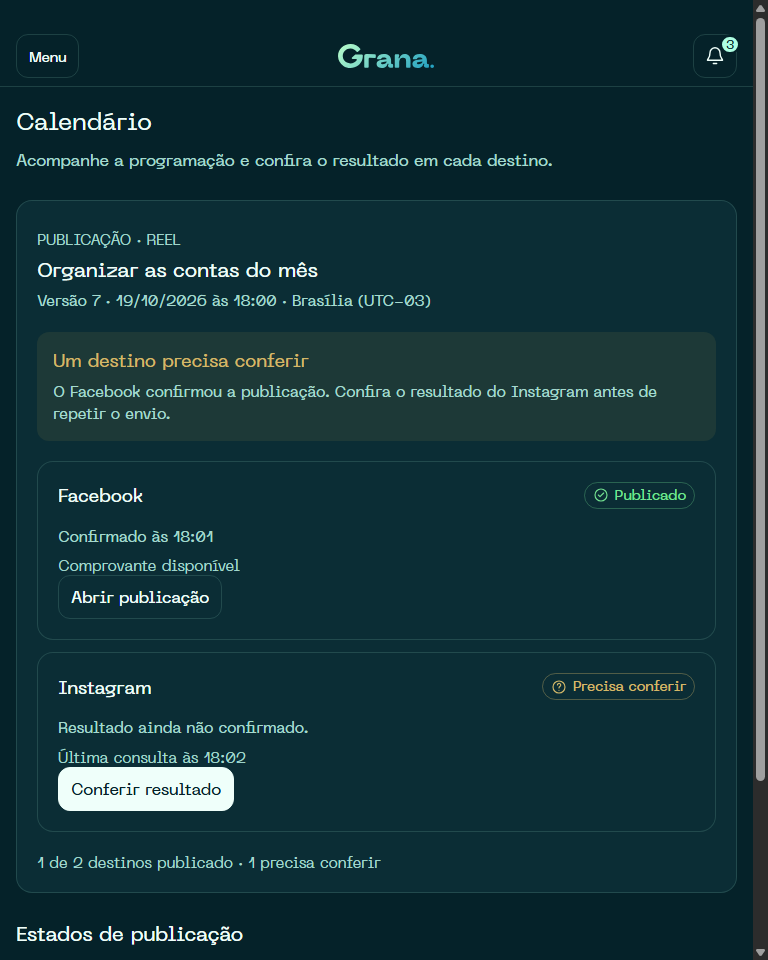
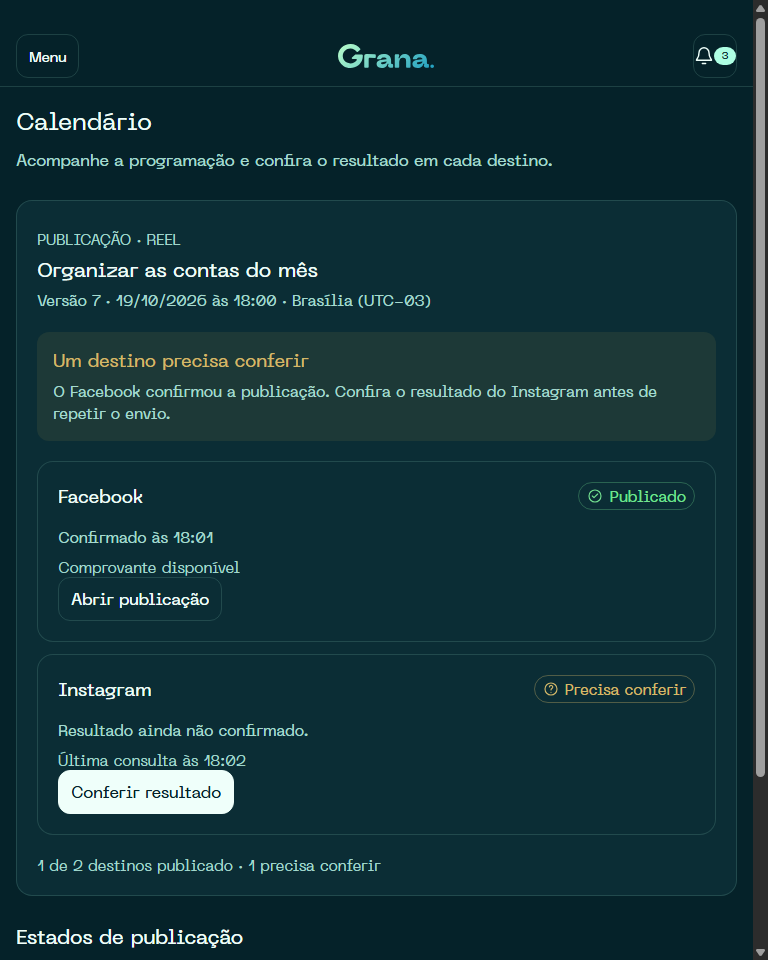
docs(admin): aplica R3b-R7 nas pranchas M6

diff --git a/docs/admin/m6-prism/M6-Prism-pranchas.html b/docs/admin/m6-prism/M6-Prism-pranchas.html
@@ -58,22 +58,22 @@
     }
     button.primary { border-color: var(--ink); background: var(--ink); color: var(--paper); }
     button.ghost { border-color: transparent; color: var(--soft); }
-    button.icon { position: relative; width: 44px; height: 44px; padding: 10px; }
+    button.icon { width: 44px; height: 44px; padding: 0; gap: 0; }
     svg { width: 20px; height: 20px; flex: none; fill: none; stroke: currentColor; stroke-width: 1.7; stroke-linecap: round; stroke-linejoin: round; }
     .count {
-      position: absolute;
-      top: 0;
-      right: -4px;
-      min-width: 19px;
-      height: 19px;
-      padding: 0 4px;
-      border: 2px solid var(--paper);
-      border-radius: 20px;
+      display: inline-flex;
+      align-items: center;
+      justify-content: center;
+      min-width: 22px;
+      height: 18px;
+      padding: 0 2px;
+      border-radius: 999px;
       background: var(--mint);
       color: var(--paper);
-      font: 400 12px/15px Neue, sans-serif;
+      font: 400 10px/1 Neue, sans-serif;
       text-align: center;
     }
+    button.icon svg { width: 20px; height: 20px; }
     .sidebar {
       position: fixed;
       inset: 0 auto 0 0;
@@ -107,7 +107,7 @@
     .card { min-width: 0; margin-top: 20px; padding: 20px; border: 1px solid var(--rule); border-radius: 16px; background: var(--raised); }
     .card > p { margin-top: 8px; color: var(--soft); font-size: 15px; }
     .row { display: flex; align-items: center; justify-content: space-between; gap: 12px; flex-wrap: wrap; }
-    .alert { margin: 20px 0; padding: 16px; border-radius: 12px; background: rgba(165, 150, 74, .12); color: var(--amber); }
+    .alert { margin: 20px 0; padding: 16px; border-radius: 12px; background: var(--atencao-fundo, rgba(165, 150, 74, .12)); color: var(--amber); }
     .alert p { margin-top: 8px; color: var(--soft); font-size: 15px; }
     .destinations { display: grid; grid-template-columns: 1fr 1fr; gap: 12px; }
     .destinations .card { margin: 0; }
@@ -121,15 +121,17 @@
       border: 1px solid var(--rule);
       border-radius: 999px;
       color: var(--soft);
-      font-size: 14px;
+      font-size: 15px;
       line-height: 1.35;
       overflow-wrap: anywhere;
     }
     .state svg { width: 16px; height: 16px; }
+    .state.planned { border-style: dashed; color: var(--faint); }
+    .state.neutral { border-color: rgba(166, 217, 206, .3); background: rgba(166, 217, 206, .05); color: var(--soft); }
     .state.warn { border-color: rgba(211, 184, 105, .35); color: var(--amber); }
     .state.success { border-color: rgba(116, 226, 145, .3); color: var(--up); }
     .state.error { border-color: rgba(224, 138, 125, .35); color: var(--danger); }
-    .state.mint { color: var(--mint); }
+    .state.mint { border-color: rgba(174, 255, 227, .35); background: rgba(174, 255, 227, .08); color: var(--mint); }
     .detail-line { margin-top: 16px !important; }
     .section-title { margin-top: 28px; }
     .scrim { position: fixed; z-index: 2; inset: 0; background: var(--scrim); }
@@ -156,6 +158,7 @@
     .tabs { display: flex; gap: 16px; border-bottom: 1px solid var(--rule); }
     .tabs button { min-height: 40px; padding: 8px 0; border: 0; border-radius: 0; }
     .tabs .selected { border-bottom: 2px solid var(--mint); }
+    .filter-toggle { display: none; }
     .filters { display: grid; grid-template-columns: 1fr 1fr; gap: 12px; margin: 16px 0; }
     .filters label { min-width: 0; color: var(--soft); font-size: 14px; }
     .filters select {
@@ -170,24 +173,30 @@
       background: var(--paper);
       font-size: 14px;
     }
-    .mark { margin-bottom: 24px; }
-    .mark button { padding: 8px 0; border: 0; color: var(--soft); font-size: 14px; }
-    .group { margin: 0 0 16px; color: var(--faint); font-size: 14px; }
-    .notification { margin-bottom: 24px; padding-bottom: 24px; border-bottom: 1px solid var(--rule); }
+    .mark { display: flex; align-items: center; gap: 8px; }
+    .mark button { min-height: 44px; padding: 8px 0; border: 0; color: var(--soft); font-size: 14px; }
+    .mark .undo { display: none; }
+    .mark.completed .mark-all { display: none; }
+    .mark.completed .undo { display: inline-flex; }
+    .mark-status { min-height: 0; }
+    .group { margin: 0 0 12px; color: var(--faint); font-size: 14px; }
+    .notification { margin-bottom: 18px; padding-bottom: 18px; border-bottom: 1px solid var(--rule); }
     .notification h3 { margin: 8px 0; font-size: 16px; line-height: 1.35; }
     .notification p { color: var(--soft); font-size: 15px; line-height: 1.5; font-weight: 300; }
-    .notification .meta { margin-top: 8px; color: var(--faint); font-size: 14px; line-height: 1.35; }
-    .notification .unread { color: var(--mint); font-size: 14px; }
+    .notification .meta { margin-top: 8px; color: var(--faint); font-size: 15px; line-height: 1.35; }
+    .notification > .small { font-size: 15px; }
+    .notification .unread { color: var(--mint); font-size: 15px; }
     .notification .actions { display: flex; flex-wrap: wrap; gap: 8px; margin-top: 12px; }
     .notification .actions button { font-size: 15px; }
     .drawer-foot {
       display: flex;
-      align-items: center;
-      justify-content: space-between;
+      flex-direction: column;
+      align-items: stretch;
       gap: 12px;
       padding: 8px 16px max(12px, env(safe-area-inset-bottom));
       border-top: 1px solid var(--rule);
     }
+    .drawer-foot-main { display: flex; align-items: center; justify-content: space-between; gap: 12px; }
     .drawer-foot button { padding: 8px 0; border: 0; font-size: 14px; }
     .drawer-foot .small { text-align: right; }
     .hidden { display: none !important; }
@@ -201,13 +210,20 @@
     }
     @media (max-width: 640px) {
       .drawer { width: 100%; height: 100vh; height: 100dvh; border-radius: 0; }
-      .filters { grid-template-columns: 1fr; }
-      .notification .actions { flex-direction: column; align-items: stretch; }
-      .notification .actions button.ghost { align-self: flex-start; }
+      .filter-toggle { display: flex; width: 100%; justify-content: space-between; margin: 12px 0; }
+      .filters { display: none; grid-template-columns: 1fr; margin: 0 0 12px; }
+      .filters-open .filters { display: grid; }
+      .notification .actions { flex-direction: row; align-items: center; gap: 4px; }
+      .notification .actions button { min-width: 0; min-height: 44px; padding: 6px; font-size: 13px; }
+      .notification .actions button.ghost { align-self: auto; }
+      .notification { margin-bottom: 16px; padding-bottom: 16px; }
+      .group { margin-bottom: 8px; }
       .card { padding: 16px; }
       .destinations .row { align-items: flex-start; flex-direction: column; }
       .destinations .actions { flex-direction: column; align-items: stretch; }
-      .drawer-foot { align-items: flex-start; }
+      .drawer-foot { gap: 4px; }
+      .drawer-foot-main { align-items: flex-start; }
+      .drawer-foot .small { text-align: left; }
       .row { align-items: flex-start; }
     }
   </style>
@@ -278,13 +294,13 @@
       <h2 class="section-title">Estados de publicação</h2>
       <p class="intro">O rótulo acompanha o destino e o comprovante correspondente.</p>
       <div class="state-list" aria-label="Estados de publicação">
-        <span class="state"><svg aria-hidden="true"><use href="#calendar"/></svg>Planejado</span>
-        <span class="state"><svg aria-hidden="true"><use href="#clock"/></svg>Programado no painel</span>
+        <span class="state planned"><svg aria-hidden="true"><use href="#calendar"/></svg>Planejado</span>
+        <span class="state neutral"><svg aria-hidden="true"><use href="#clock"/></svg>Programado no painel</span>
         <span class="state mint"><svg aria-hidden="true"><use href="#clock-check"/></svg>Agendado na Meta</span>
-        <span class="state"><svg aria-hidden="true"><use href="#progress"/></svg>Preparando</span>
+        <span class="state neutral"><svg aria-hidden="true"><use href="#progress"/></svg>Preparando</span>
         <span class="state success"><svg aria-hidden="true"><use href="#check"/></svg>Publicado</span>
         <span class="state warn"><svg aria-hidden="true"><use href="#clock-alert"/></svg>Cancelamento pendente</span>
-        <span class="state"><svg aria-hidden="true"><use href="#cancel"/></svg>Cancelado</span>
+        <span class="state neutral"><svg aria-hidden="true"><use href="#cancel"/></svg>Cancelado</span>
         <span class="state error"><svg aria-hidden="true"><use href="#alert"/></svg>Falhou</span>
         <span class="state warn"><svg aria-hidden="true"><use href="#question"/></svg>Precisa conferir</span>
       </div>
@@ -303,11 +319,13 @@
           <button type="button" class="selected" role="tab" aria-selected="true">Não lidas (3)</button>
           <button type="button" role="tab" aria-selected="false">Todas</button>
         </div>
-        <div class="filters">
+        <button type="button" class="filter-toggle" aria-expanded="false" aria-controls="notification-filters">
+          <span>Filtros</span><span>0 ativos</span>
+        </button>
+        <div class="filters" id="notification-filters">
           <label>Fonte<select><option>Todas as fontes</option><option>Publicações</option><option>Criativos</option><option>Feedbacks</option><option>Sistema</option><option>Novidades</option></select></label>
           <label>Importância<select><option>Todas</option><option>Precisa agir</option><option>Informação</option></select></label>
         </div>
-        <div class="mark"><button type="button">Marcar todas como lidas</button><p class="small">Inclui as notificações de todos os filtros.</p></div>
         <p class="group">Hoje</p>
         <article class="notification">
           <span class="state warn"><svg aria-hidden="true"><use href="#question"/></svg>Precisa conferir</span>
@@ -332,7 +350,14 @@
           <div class="actions"><button type="button">Abrir feedback</button><button type="button" class="ghost">Marcar como lida</button></div>
         </article>
       </div>
-      <footer class="drawer-foot"><button type="button">Preferências</button><p class="small">Atualizado às 18:06</p></footer>
+      <footer class="drawer-foot">
+        <div class="mark" id="mark-all-control">
+          <button type="button" class="mark-all">Marcar 3 como lidas</button>
+          <button type="button" class="undo">Desfazer</button>
+          <p class="small mark-status" aria-live="polite">Inclui todos os filtros.</p>
+        </div>
+        <div class="drawer-foot-main"><button type="button">Preferências</button><p class="small">Atualizado às 18:06</p></div>
+      </footer>
     </section>
   </div>
 
@@ -340,6 +365,30 @@
     if (new URLSearchParams(location.search).get('tela') === 'publicacao') {
       document.getElementById('notification-layer').classList.add('hidden');
     }
+    const filterToggle = document.querySelector('.filter-toggle');
+    const filterPanel = document.querySelector('.filters');
+    filterToggle.addEventListener('click', () => {
+      const expanded = filterToggle.getAttribute('aria-expanded') === 'true';
+      filterToggle.setAttribute('aria-expanded', String(!expanded));
+      filterPanel.closest('.drawer-scroll').classList.toggle('filters-open', !expanded);
+    });
+    const markControl = document.getElementById('mark-all-control');
+    const markStatus = markControl.querySelector('.mark-status');
+    let undoTimer;
+    markControl.querySelector('.mark-all').addEventListener('click', () => {
+      markControl.classList.add('completed');
+      markStatus.textContent = '3 notificações marcadas como lidas.';
+      clearTimeout(undoTimer);
+      undoTimer = setTimeout(() => {
+        markControl.classList.remove('completed');
+        markStatus.textContent = 'Inclui todos os filtros.';
+      }, 5000);
+    });
+    markControl.querySelector('.undo').addEventListener('click', () => {
+      clearTimeout(undoTimer);
+      markControl.classList.remove('completed');
+      markStatus.textContent = 'Ação desfeita.';
+    });
   </script>
 </body>
 </html>

diff --git a/docs/admin/m6-prism/M6-Prism-sino-estados.md b/docs/admin/m6-prism/M6-Prism-sino-estados.md
@@ -47,11 +47,11 @@ Hierarquia:
 1. Cabeçalho: “Notificações” em 20/24 px, total de não lidas em 14/18,9 px e botão Fechar de 44 × 44 px.
 2. Abas “Não lidas” e “Todas”; a aba ativa tem texto e traço, além da cor. As quantidades devem acompanhar as duas abas.
 3. Filtros por fonte e importância, sem carrossel de chips. Fontes: “Todas as fontes”, “Publicações”, “Criativos”, “Feedbacks”, “Sistema” e “Novidades”. Importância: “Todas”, “Precisa agir” e “Informação”. São agrupamentos visuais, não estados de publicação.
-4. Ação “Marcar todas como lidas”, com ajuda explícita de que inclui notificações de todos os filtros. Opera sobre as existentes no instante da ação; as que chegarem depois continuam não lidas. Não exige confirmação. Em caso de falha, preservar contador e lista e oferecer nova tentativa.
+4. Ação “Marcar todas como lidas”, com ajuda explícita de que inclui notificações de todos os filtros. Opera sobre as existentes no instante da ação; as que chegarem depois continuam não lidas. Não exige confirmação. Em caso de falha, preservar contador e lista e oferecer nova tentativa. A ação mostra a quantidade (“Marcar 3 como lidas”) e, ao concluir, oferece “Desfazer” por alguns segundos.
 5. Lista agrupada por “Hoje” e “Anteriores”. Cada ocorrência apresenta importância com ícone e texto, título, resumo seguro, fonte, horário, ação específica e “Marcar como lida”. O texto tem largura flexível, `min-width: 0` e quebra natural.
 6. Rodapé com Preferências e data da última atualização.
 
-Em até 640 px, o cabeçalho precisa ficar acima da barra móvel e o painel ocupa a tela inteira. No primeiro acesso, manter o primeiro item útil visível sem rolagem; os filtros podem ficar recolhidos em “Filtros”, com quantidade de filtros ativos. A ação de marcar todas pode ficar no rodapé ou no menu da lista.
+Em até 640 px, o cabeçalho precisa ficar acima da barra móvel e o painel ocupa a tela inteira. No primeiro acesso, manter o primeiro item útil visível sem rolagem; os filtros ficam recolhidos em “Filtros”, com quantidade de filtros ativos. “Marcar todas” fica no rodapé ou no menu da lista para deixar a ocorrência prioritária aparecer primeiro.
 
 Cada item usa padding de 16 px; 8 px entre título e resumo e entre resumo e metadados; 12 px antes das ações; e 20–28 px entre ocorrências, com o traço existente. Título: 16/21,6 px regular. Resumo: 15/22,5 px light. Metadados e selos: pelo menos 15 px, acompanhando a escala do painel. Evitar metadados de 12 px para informação necessária à decisão.
 
@@ -79,6 +79,8 @@ Estados da central:
 O estado pertence ao envio por destino. Um item pode ter Facebook Publicado e Instagram Precisa conferir. O resumo agregado diz “1 de 2 destinos publicado; 1 precisa conferir”, sem selo global Publicado para execução parcial.
 
 Os selos reutilizam a anatomia de `.selo`: texto por extenso, símbolo distinto e cor semântica. Altura mínima de 26 px, padding horizontal de 8 px e fonte mínima de 15 px nesta superfície. Podem crescer para duas linhas, especialmente “Cancelamento pendente” e “Programado no painel”; nunca cortar os nomes. Alvos clicáveis continuam com 44 px.
+
+Mapeamento visual proposto: Planejado usa `.selo-ausente` (tracejado); Programado no painel, Preparando e Cancelado usam a nova regra completa `.selo-neutro`, com ícones próprios; Agendado na Meta usa `.selo-menta` (nova); Publicado usa `.selo-ok`; Cancelamento pendente e Precisa conferir usam `.selo-alerta` com relógio e interrogação distintos; Falhou usa `.selo-erro`. Hoje `estilo.css` define apenas `.selo-neutro::before`, sem texto/borda próprios; a classe completa precisa ser acrescentada. Não existe `.selo-menta`.
 
 | Estado | Significado e evidência necessária | Apresentação e próximo passo |
 |---|---|---|
@@ -147,7 +149,7 @@ Pranchas estáticas não comprovam leitor de tela, foco, contraste calculado ou 
 ## D2 — fechamento por etapas
 
 - **R1–R3 (bloqueadores):** [concluído] texto e ícones reconstruídos em UTF-8; cabeçalho e Fechar visíveis sobre a barra móvel; oito capturas refeitas como viewports reais, incluindo 320 × 640.
-- **Importantes:** R3b–R7 — reduzir controles antes do primeiro item, diferenciar estados, manter o contador no botão, incluir desfazer e respeitar a escala mínima de texto.
+- **Importantes:** R3b–R7 — [concluído] recolher controles antes do primeiro item, diferenciar os estados, manter o contador dentro do botão, incluir ação de desfazer e respeitar a escala mínima de texto.
 - **Menores:** R8–R13 — quantidades nas abas, alvo e foco, preservar a grade aprovada, reutilizar token de aviso, mostrar estados alternativos e reforçar que HTML estático não prova acessibilidade funcional.
 
 ## Registro para o documentador
